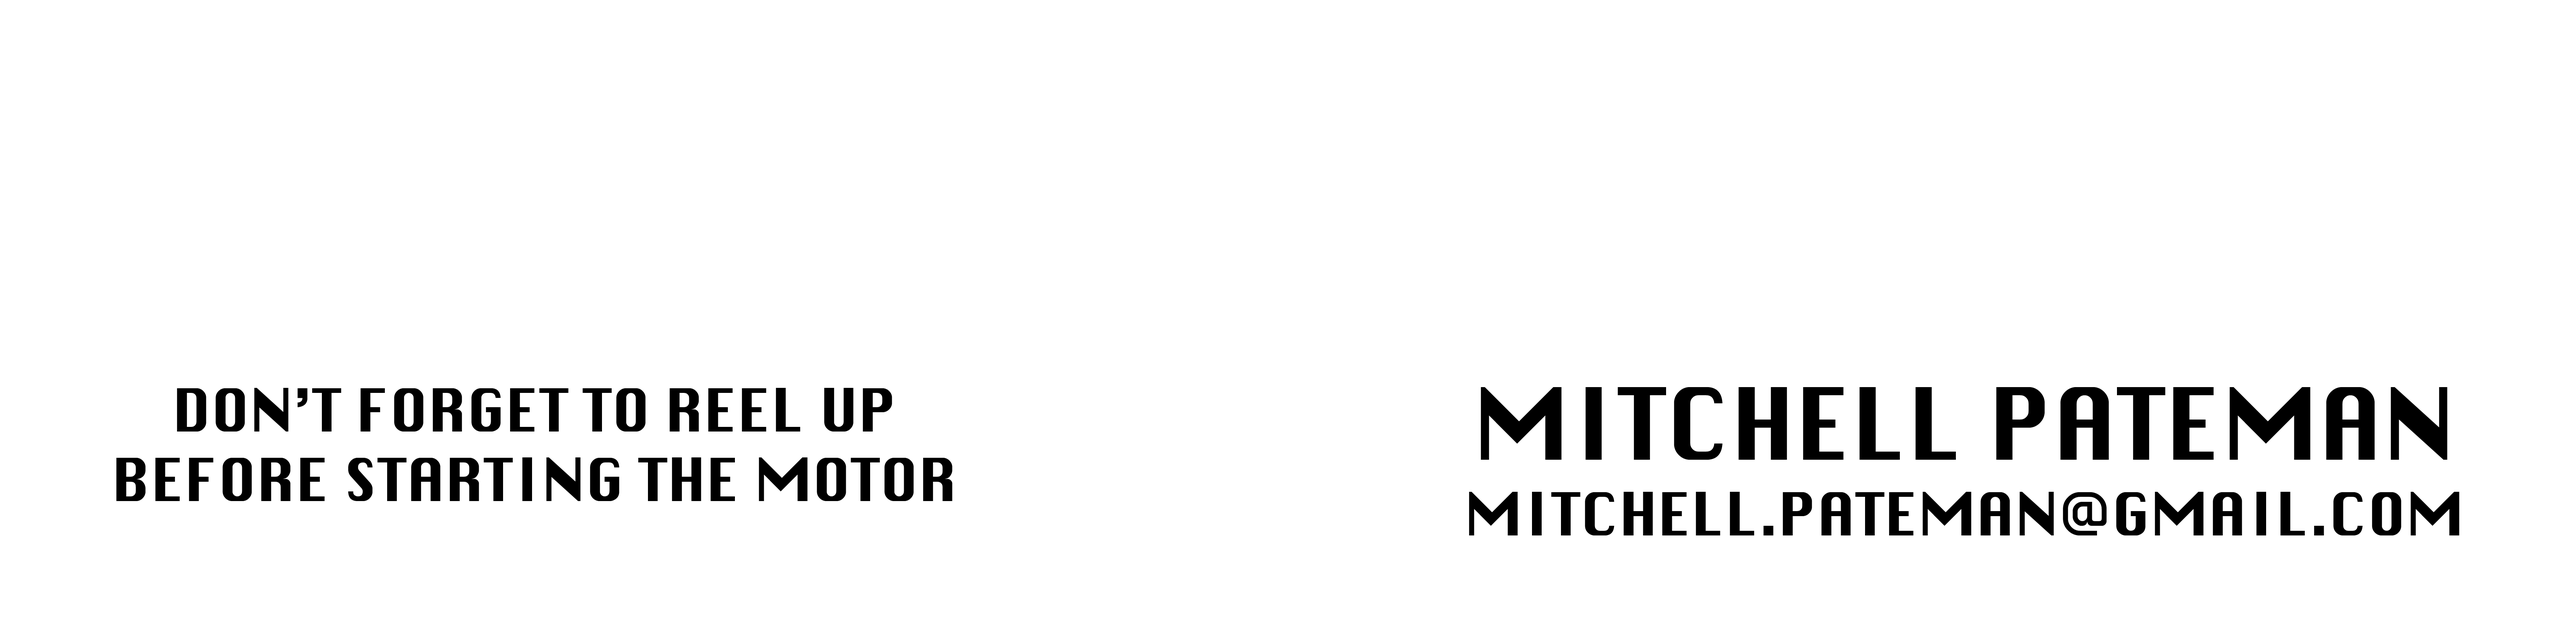
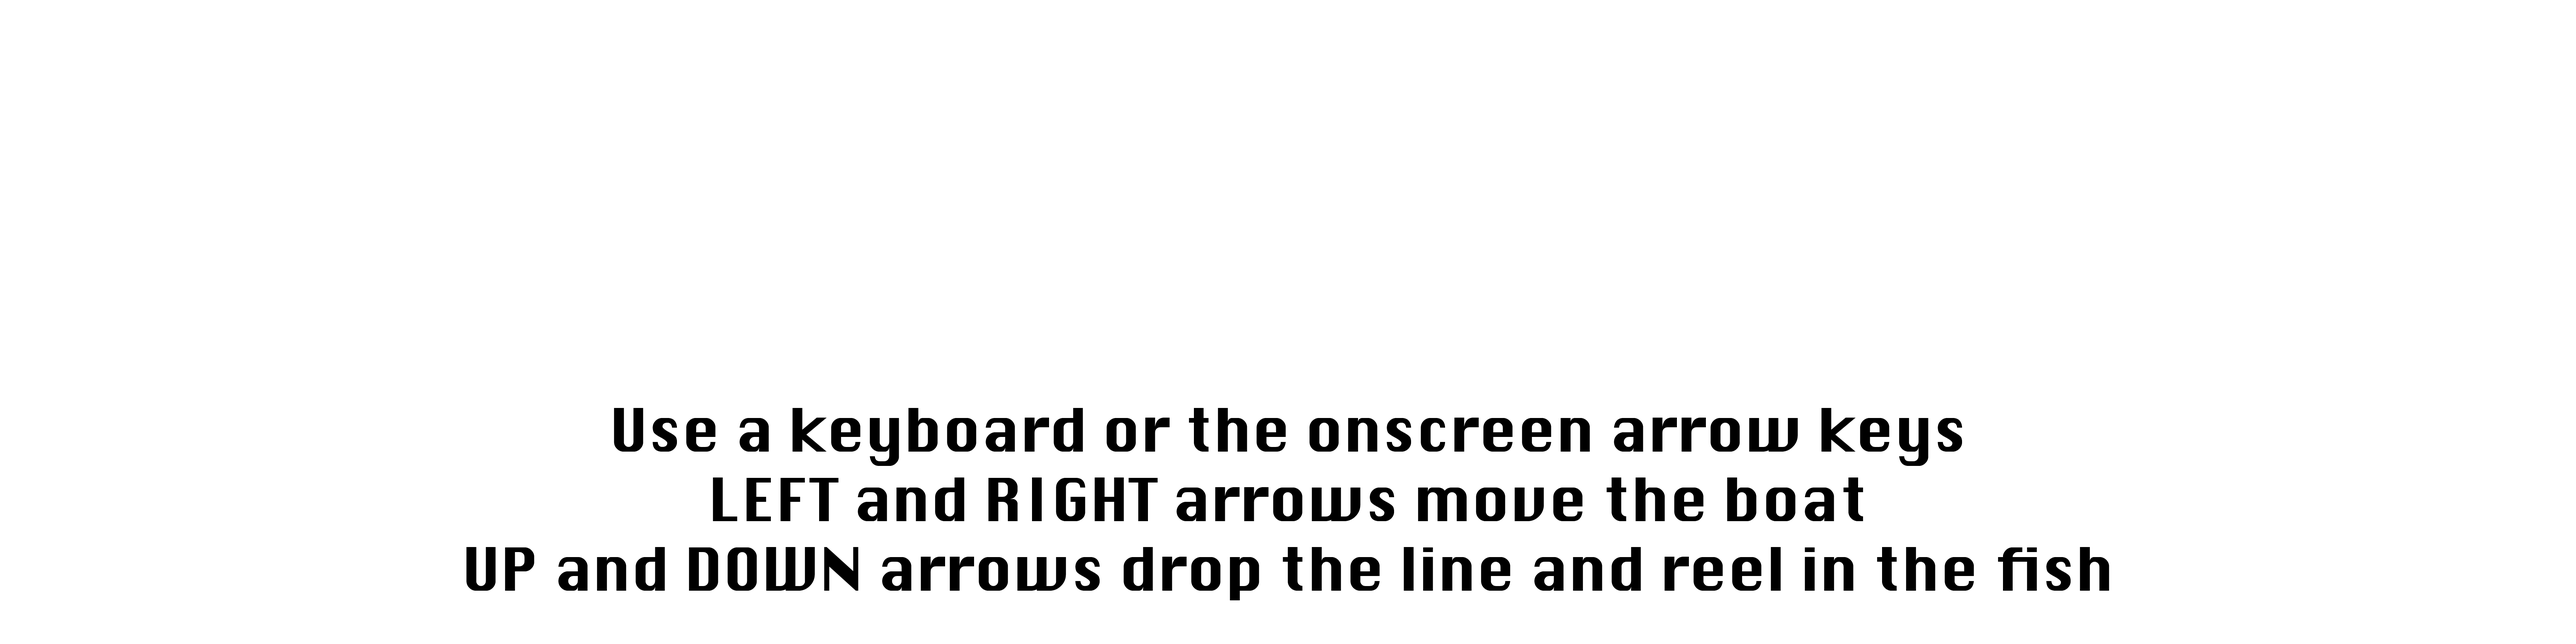
added the bottom bar

Changed region(s): [[0.0312, 0.5927, 0.9672, 0.9358]]

diff --git a/script.js b/script.js
@@ -74,6 +74,9 @@ var liHooked = false;
 
 
 //Load Images
+var topBar = document.createElement('img');
+topBar.src = 'images/top_bar_fishing.png'
+
 var bottomBar = document.createElement('img');
 bottomBar.src = 'images/bottom_bar_fishing.png'
 
@@ -212,6 +215,11 @@ function mouseDownHandler(event) {
       else if (clickX > 950 && clickX < 1120 && clickY < 380 && clickY > 260) {
         spacePressed = true;
       };
+
+      //ELSE IF LINKS FISH IS CAUGHT AND LINK IS PRESSED x 5
+      //else if (liHooked == true && linksY < 287.13) {
+
+
 };
 
 function mouseUpHandler(event) {
@@ -246,6 +254,10 @@ function touchDownHandler(event) {
       else if (touchX > 950 && touchX < 1120 && touchY < 380 && touchY > 260) {
         spacePressed = true;
       };
+
+      //ELSE IF(LINKS FISH CAUGHT AND LINKS PRESSED x 5)
+      //else if (liHooked == true && linksY < 287.13) {
+
 };
 
 function touchUpHandler(event) {
@@ -268,8 +280,11 @@ function drawBoat() {
 function drawBoatLeft() {
   ctx.drawImage(boatLeft,x,y);
 };
+function drawtopBar() {
+  ctx.drawImage(topBar,540,-110,800,210);
+};
 function drawBottomBar() {
-  ctx.drawImage(bottomBar,540,-110,800,210);
+  ctx.drawImage(bottomBar,300,510,800,210);
 };
 //drawLine functions (x, y are relative to boat)
 function drawLine() {
@@ -357,6 +372,7 @@ function draw() {
   drawRightArrow();
   drawUpArrow();
   drawDownArrow();
+  drawtopBar();
   drawBottomBar();
 
 
@@ -606,6 +622,9 @@ function draw() {
       linksY = hookY - 50;
     }
     else if (linksY < 287.13){
+
+      //if linksPressed linkTo webpage!
+
       if (liHooked == true && linksY < 287.13) {
         drawLinksModal();
         if (spacePressed || leftPressed || rightPressed || downPressed){
